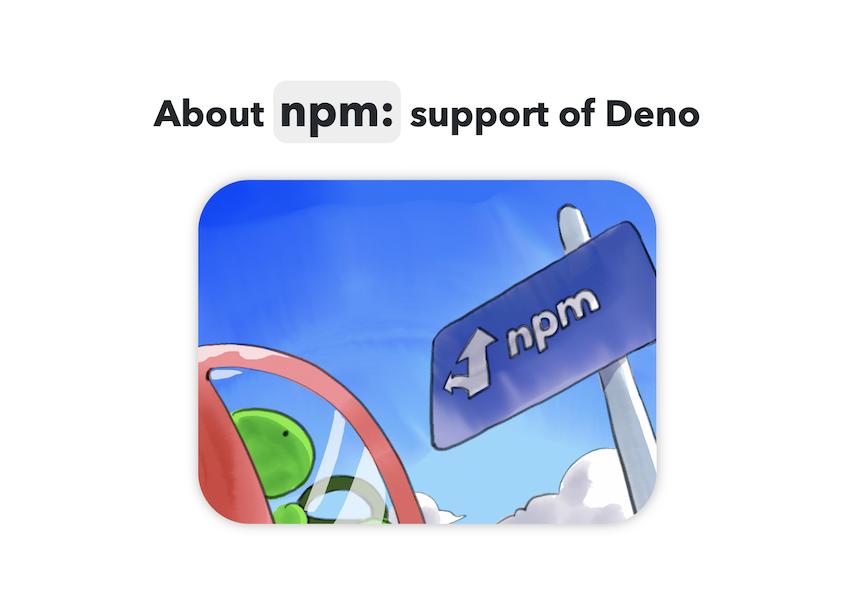
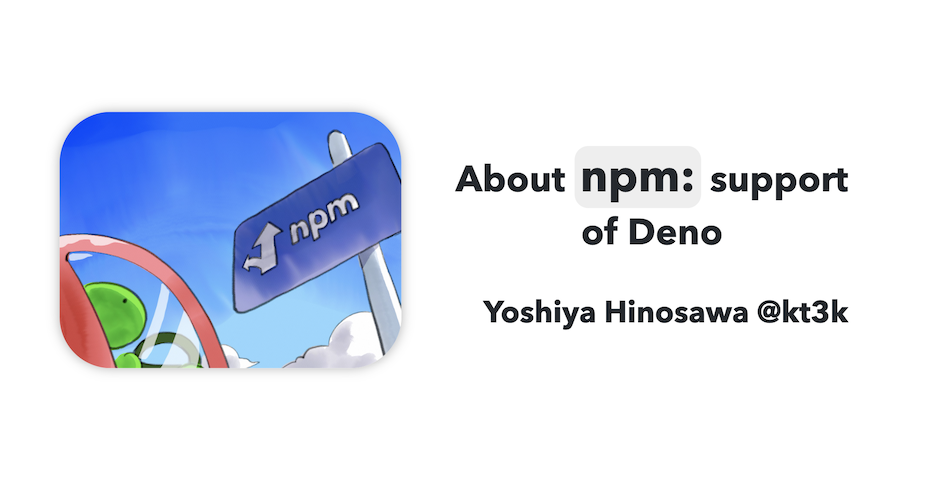
update

diff --git a/docs/index.html b/docs/index.html
@@ -8,10 +8,10 @@
     
     <meta property="og:image" content="https://kt3k.github.io/talk_jsconfjp_2022/assets/og-image.png"/>
     
-    <meta property="og:image:width" content="860"/>
+    <meta property="og:image:width" content="934"/>
     
     
-    <meta property="og:image:height" content="614"/>
+    <meta property="og:image:height" content="491"/>
     
     
     
@@ -135,11 +135,19 @@ code.remark-code {
   <body>
     <textarea id="source" style="display: none">class: middle center no-number
 
-<span class="">About <span style="font-size: 40px; background-color: #eee; padding-left: 5px; padding-right: 5px; border-radius: 12px;">npm:</span> support of Deno</span>
+<div style="display: flex; justify-content: space-evenly;">
+  <img src="./assets/npm-roadsign.jpg" style="border-radius: 45px; box-shadow: 0 0 10px rgba(0,0,0,0.3);" align="center" width="300" />
 
-<img src="./assets/npm-roadsign.jpg" style="border-radius: 45px; box-shadow: 0 0 10px rgba(0,0,0,0.3);" align="center" width="400" />
-
-<small>Yoshiya Hinosawa</small>
+  <div style="display: flex; flex-direction: column; justify-content: space-evenly; align-items: flex-end;">
+    <span class="">
+      About
+      <span style="font-size: 40px; background-color: #eee; padding-left: 5px; padding-right: 5px; border-radius: 12px;">npm:</span>
+      support
+      <br/>of Deno
+    </span>
+    <small>Yoshiya Hinosawa @kt3k</small>
+  </div>
+</div>
 
 ---
 class: bg-light-yellow

diff --git a/slides.md b/slides.md
@@ -1,10 +1,18 @@
 class: middle center no-number
 
-<span class="">About <span style="font-size: 40px; background-color: #eee; padding-left: 5px; padding-right: 5px; border-radius: 12px;">npm:</span> support of Deno</span>
+<div style="display: flex; justify-content: space-evenly;">
+  <img src="./assets/npm-roadsign.jpg" style="border-radius: 45px; box-shadow: 0 0 10px rgba(0,0,0,0.3);" align="center" width="300" />
 
-<img src="./assets/npm-roadsign.jpg" style="border-radius: 45px; box-shadow: 0 0 10px rgba(0,0,0,0.3);" align="center" width="400" />
-
-<small>Yoshiya Hinosawa</small>
+  <div style="display: flex; flex-direction: column; justify-content: space-evenly; align-items: flex-end;">
+    <span class="">
+      About
+      <span style="font-size: 40px; background-color: #eee; padding-left: 5px; padding-right: 5px; border-radius: 12px;">npm:</span>
+      support
+      <br/>of Deno
+    </span>
+    <small>Yoshiya Hinosawa @kt3k</small>
+  </div>
+</div>
 
 ---
 class: bg-light-yellow
